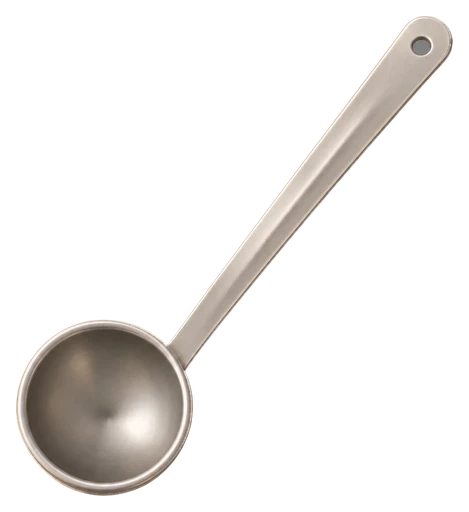
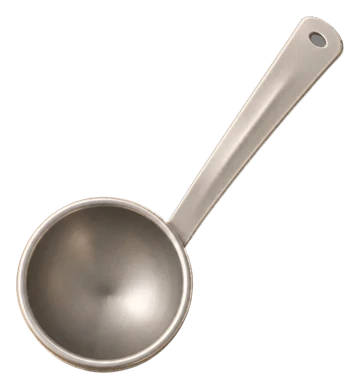
S03-D: boing's upper arm runs off the stage edges (no hard dress edge); the kadchi's handle foreshortened (clear of the speed dial); the belt's rough skin and blue plasters take the s02 flat plasters (CLN-97)
Claude-Session: https://claude.ai/code/session_01GsS5kQU7EuaP5x8MwTqpvt

diff --git a/js/cook/stations/daar.js b/js/cook/stations/daar.js
@@ -90,8 +90,8 @@ import { setTimeout, clearTimeout, setInterval, clearInterval, requestAnimationF
   // (290 x 455, top-down, the handle rising: its bowl's centre and radius)
   const TRIVET = { w: 528, h: 563, cx: 0.4928, cy: 0.4987, r: 0.4833 };
   // S03-D (DAAR-02): ladle-v3, a real kadchi from above (a deep round bowl, a flat strap handle rising to the upper
-  // right); its bowl: the biggest circle inside it, measured on the cut
-  const LADLE = { w: 469, h: 512, cx: 0.2217, cy: 0.7949, r: 0.1843 };
+  // right, foreshortened by build/gen_s03.py); its bowl: the biggest circle inside it, measured on the cut
+  const LADLE = { w: 360, h: 389, cx: 0.2889, cy: 0.7301, r: 0.2401 };
   // (R4 cell 6) the same bowl of plain daar, no tadka: it waits beside the pot and pours in (the tadka one is the review's)
   // S03-D (C10): the s03 bowl (matte daar) on trivet-t, one canvas with daar-bowl-plain-t (build/gen_s03.py --fit)
   const TRIVET_PLAIN = { w: 489, h: 490, cx: 0.4991, cy: 0.4971, r: 0.4899 };

diff --git a/build/gen_s03.py b/build/gen_s03.py
@@ -206,6 +206,35 @@ def defringe(path, px=2):
     Image.fromarray(np.dstack([rgb, np.clip(na * 255, 0, 255)]).astype(np.uint8), 'RGBA').save(path, 'WEBP', quality=92, method=6)
 
 
+def foreshorten(im, k):
+    """The kadchi's handle rises toward the camera: past the bowl's rim it is shortened to k along its own line, so it
+    stays over the pot's rim and clear of the speed dial (S4, DAAR-02). The bowl (the biggest inside circle) is kept."""
+    import numpy as np
+    from scipy import ndimage as ndi
+    a = np.asarray(im).astype(float)
+    al = a[..., 3] > 128
+    d = ndi.distance_transform_edt(al)
+    cy, cx = np.unravel_index(d.argmax(), d.shape)
+    r = d.max()
+    ys, xs = np.nonzero(al)
+    i = np.argmax((xs - cx) ** 2 + (ys - cy) ** 2)
+    ux, uy = (xs[i] - cx), (ys[i] - cy)
+    L = np.hypot(ux, uy)
+    ux, uy = ux / L, uy / L
+    H, W = al.shape
+    gy, gx = np.mgrid[0:H, 0:W].astype(float)
+    t = (gx - cx) * ux + (gy - cy) * uy  # along the handle
+    r0 = r * 1.05
+    # inverse map: an output point at t > r0 samples the source at r0 + (t - r0) / k
+    ts = np.where(t > r0, r0 + (t - r0) / k, t)
+    sx, sy = gx + (ts - t) * ux, gy + (ts - t) * uy
+    out = np.stack([ndi.map_coordinates(a[..., c], [sy, sx], order=1, cval=0) for c in range(4)], -1)
+    o = Image.fromarray(np.clip(out, 0, 255).astype(np.uint8), 'RGBA')
+    bb = o.getchannel('A').point(lambda v: 255 if v > 8 else 0).getbbox()
+    o = o.crop((max(0, bb[0] - 16), max(0, bb[1] - 16), min(W, bb[2] + 16), min(H, bb[3] + 16)))
+    return o
+
+
 def fit(stage):
     """Place the staged cuts (artcut.py s03.cut.json --out <dir>; <dir>/stage) on the game's canvases. Prints the
     measurements the data and code hookups need."""
@@ -252,7 +281,7 @@ def fit(stage):
     p = p.resize((round(p.width * s), round(p.height * s)), Image.LANCZOS)
     cv = Image.new('RGBA', (p.width + 32, p.height + 32), (0, 0, 0, 0))
     cv.alpha_composite(p, (16, 16))
-    save(cv, 'assets/cook/items/v3/daar/ladle-v3.webp')
+    save(foreshorten(cv, 0.6), 'assets/cook/items/v3/daar/ladle-v3.webp')
     # G1-G4: the girl's face layers and corner heads (the cut's canvas is girl-front's own)
     gd = os.path.join(stage, 'girl')
     for f in ['hot', 'cold', 'pain', 'happy']:
